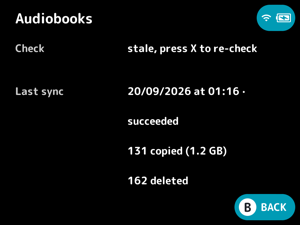
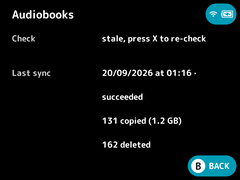
README : captures à 240 px, renommées, rééchantillonnées avec ffmpeg
240 px de large, soit 720 px à trois : elles tiennent côte à côte sur une
ligne. Rééchantillonnage lanczos (ffmpeg) plutôt que sips, plus net sur
du texte d'interface. Les fichiers sont renommés au passage : à URL
identique, GitHub et le navigateur resservaient l'ancienne image en
1024 px depuis leur cache.

diff --git a/README.md b/README.md
@@ -20,7 +20,7 @@ card out.
 
 Captured on a TrimUI Brick (tg5040) running the pak against a real SMB share.
 
-![The list of links, each with its status](docs/screenshots/links-list.png) ![A link syncing, showing its progress in percent](docs/screenshots/syncing.png) ![A link's detail screen with its last sync](docs/screenshots/link-detail.png)
+![The list of links, each with its status](docs/screenshots/main-screen.png) ![A link syncing, showing its progress in percent](docs/screenshots/sync-running.png) ![A link's detail screen with its last sync](docs/screenshots/link-detail.png)
 
 Left to right: **the links after a sync**, each with its status — **a sync
 running**, the active link showing the share of data transferred — **one
